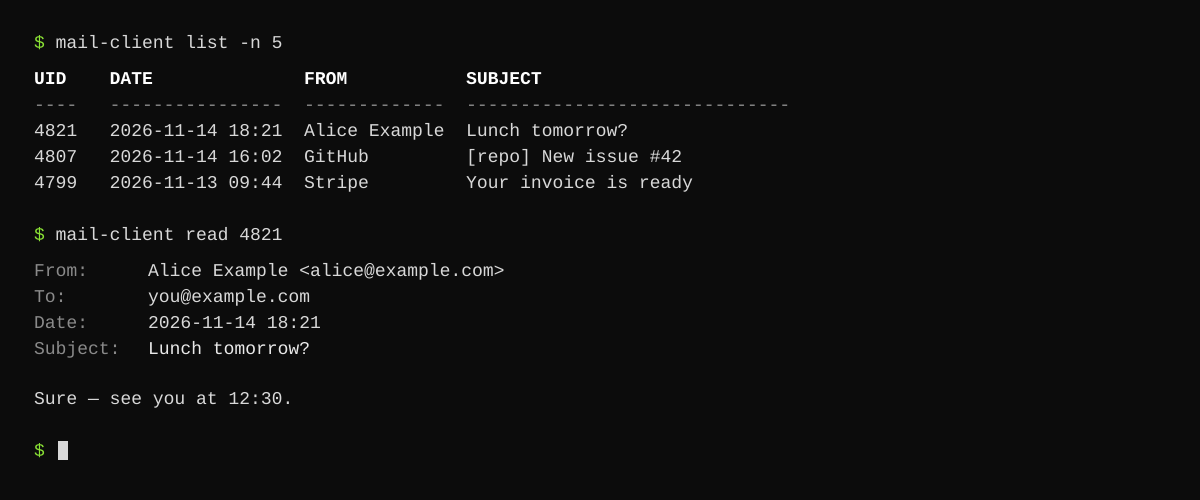
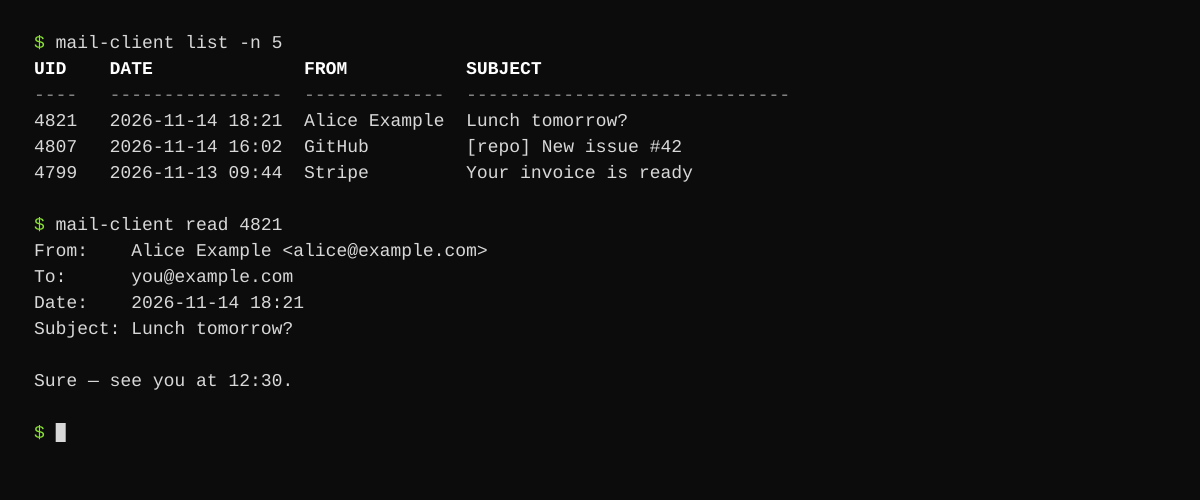
Make preview reproducible
Add the terminal transcript and renderer used for preview.png so other project previews can use the same 1200x500 style.

diff --git a/scripts/make-terminal-preview.py b/scripts/make-terminal-preview.py
@@ -1,0 +1,119 @@
+#!/usr/bin/env python3
+"""Render a plain terminal-style preview PNG from a text transcript.
+
+Usage:
+    make-terminal-preview.py INPUT.txt OUTPUT.png
+
+Transcript conventions:
+    $ command      green prompt, normal text
+    ## heading     white bold
+    .. muted       muted gray
+    anything else  normal light gray
+
+The canvas is always 1200x500, black, square, and uses Liberation Mono at 18px
+with a 26px line height. Lines are limited to 17.
+"""
+
+from __future__ import annotations
+
+import html
+import subprocess
+import sys
+import tempfile
+from pathlib import Path
+
+WIDTH = 1200
+HEIGHT = 500
+LEFT = 34
+TOP = 48
+LINE_HEIGHT = 26
+FONT_SIZE = 18
+FONT_FAMILY = '"Liberation Mono", "DejaVu Sans Mono", monospace'
+MAX_LINES = 17
+COLOR_TEXT = "#d8d8d8"
+COLOR_MUTED = "#8a8a8a"
+COLOR_HEADER = "#ffffff"
+COLOR_PROMPT = "#8ae234"
+
+SVG_HEAD = f'''<svg xmlns="http://www.w3.org/2000/svg" width="{WIDTH}" height="{HEIGHT}" viewBox="0 0 {WIDTH} {HEIGHT}">
+  <style>
+    text {{ font-family: {FONT_FAMILY}; font-size: {FONT_SIZE}px; fill: {COLOR_TEXT}; }}
+    .muted {{ fill: {COLOR_MUTED}; }}
+    .header {{ fill: {COLOR_HEADER}; font-weight: bold; }}
+    .prompt {{ fill: {COLOR_PROMPT}; }}
+  </style>
+  <rect width="{WIDTH}" height="{HEIGHT}" fill="#0c0c0c"/>
+  <g xml:space="preserve">
+'''
+SVG_TAIL = '''  </g>
+</svg>
+'''
+
+
+def text_line(index: int, value: str) -> str:
+    y = TOP + index * LINE_HEIGHT
+    if value == "$":
+        return (
+            f'    <text x="{LEFT}" y="{y}" xml:space="preserve">'
+            f'<tspan class="prompt">$ </tspan></text>\n'
+        )
+    if value.startswith("$ "):
+        command = html.escape(value[2:], quote=False)
+        return (
+            f'    <text x="{LEFT}" y="{y}" xml:space="preserve">'
+            f'<tspan class="prompt">$ </tspan>{command}</text>\n'
+        )
+    if value.startswith("## "):
+        heading = html.escape(value[3:], quote=False)
+        return f'    <text x="{LEFT}" y="{y}" class="header">{heading}</text>\n'
+    if value.startswith(".. "):
+        muted = html.escape(value[3:], quote=False)
+        return f'    <text x="{LEFT}" y="{y}" class="muted">{muted}</text>\n'
+    return (
+        f'    <text x="{LEFT}" y="{y}" xml:space="preserve">'
+        f'{html.escape(value, quote=False)}</text>\n'
+    )
+
+
+def main() -> int:
+    if len(sys.argv) != 3:
+        print(__doc__.strip(), file=sys.stderr)
+        return 2
+
+    source = Path(sys.argv[1])
+    output = Path(sys.argv[2])
+    lines = source.read_text(encoding="utf-8").splitlines()
+    if not lines:
+        print("input transcript is empty", file=sys.stderr)
+        return 1
+    if len(lines) > MAX_LINES:
+        print(f"input has {len(lines)} lines; maximum is {MAX_LINES}", file=sys.stderr)
+        return 1
+
+    body = "".join(text_line(index, line) for index, line in enumerate(lines))
+    if lines[-1] in ("$", "$ "):
+        cursor_y = TOP + (len(lines) - 1) * LINE_HEIGHT - 15
+        cursor_x = LEFT + 2 * 10.84
+        body += (
+            f'    <rect x="{cursor_x:.1f}" y="{cursor_y}" '
+            'width="10" height="19" fill="#d8d8d8"/>\n'
+        )
+
+    svg = SVG_HEAD + body + SVG_TAIL
+    output.parent.mkdir(parents=True, exist_ok=True)
+    with tempfile.NamedTemporaryFile("w", suffix=".svg", delete=False) as handle:
+        handle.write(svg)
+        temp = Path(handle.name)
+
+    try:
+        subprocess.run(["magick", str(temp), str(output)], check=True)
+    except FileNotFoundError:
+        print("ImageMagick's `magick` command was not found", file=sys.stderr)
+        return 1
+    finally:
+        temp.unlink(missing_ok=True)
+    return 0
+
+
+if __name__ == "__main__":
+    raise SystemExit(main())

diff --git a/README.md b/README.md
@@ -200,6 +200,8 @@ src/mime.rs      MIME generation, HTML-to-text, header encoding
 src/render.rs    table, plain, and JSON output
 src/presets.rs   Gmail, Outlook, Yahoo, iCloud, Fastmail defaults
 src/model.rs     shared message, attachment, folder, and result types
+scripts/make-terminal-preview.py   terminal preview renderer
+preview.txt                        source transcript for preview.png
 ```
 
 ## Development
@@ -209,6 +211,12 @@ cargo fmt --check
 cargo clippy --all-targets -- -D warnings
 cargo test
 cargo build --release
+```
+
+The README preview is generated from `preview.txt`:
+
+```bash
+python3 scripts/make-terminal-preview.py preview.txt preview.png
 ```
 
 The test suite includes mock IMAP and SMTP servers, so search, fetch, HTML
